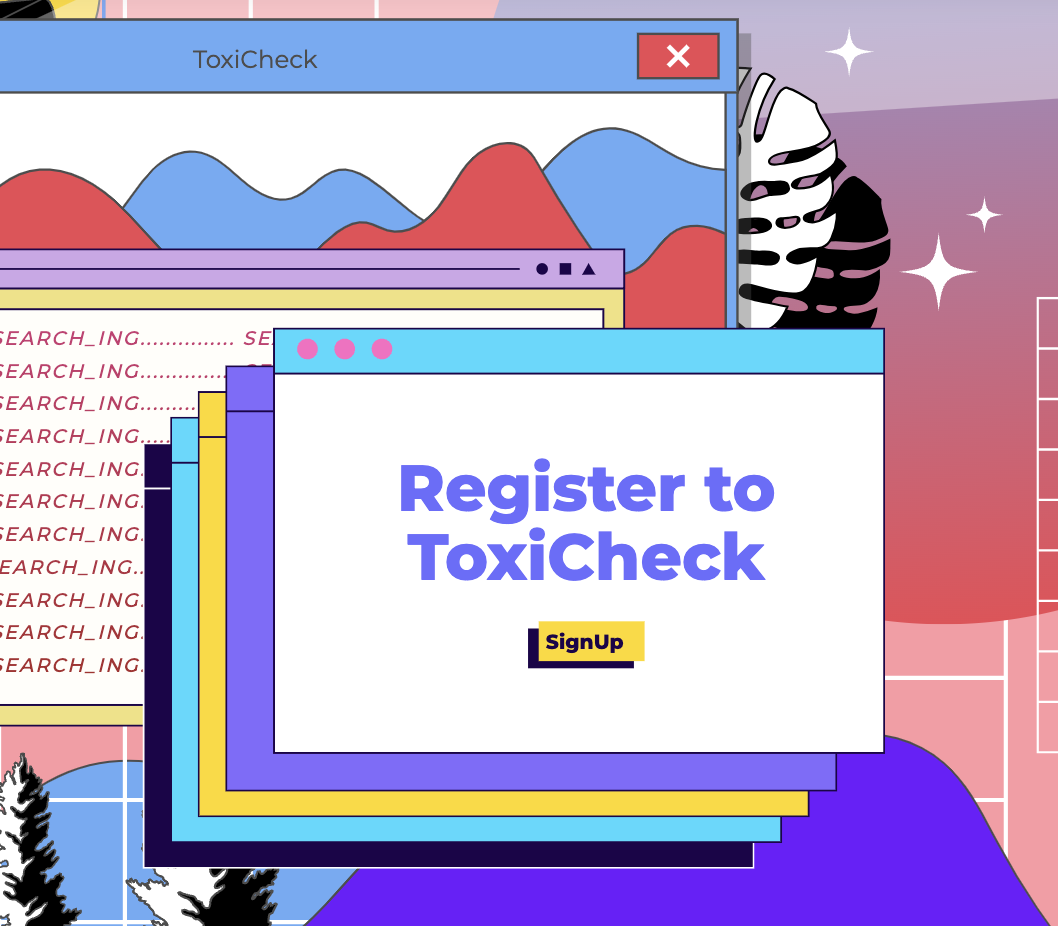
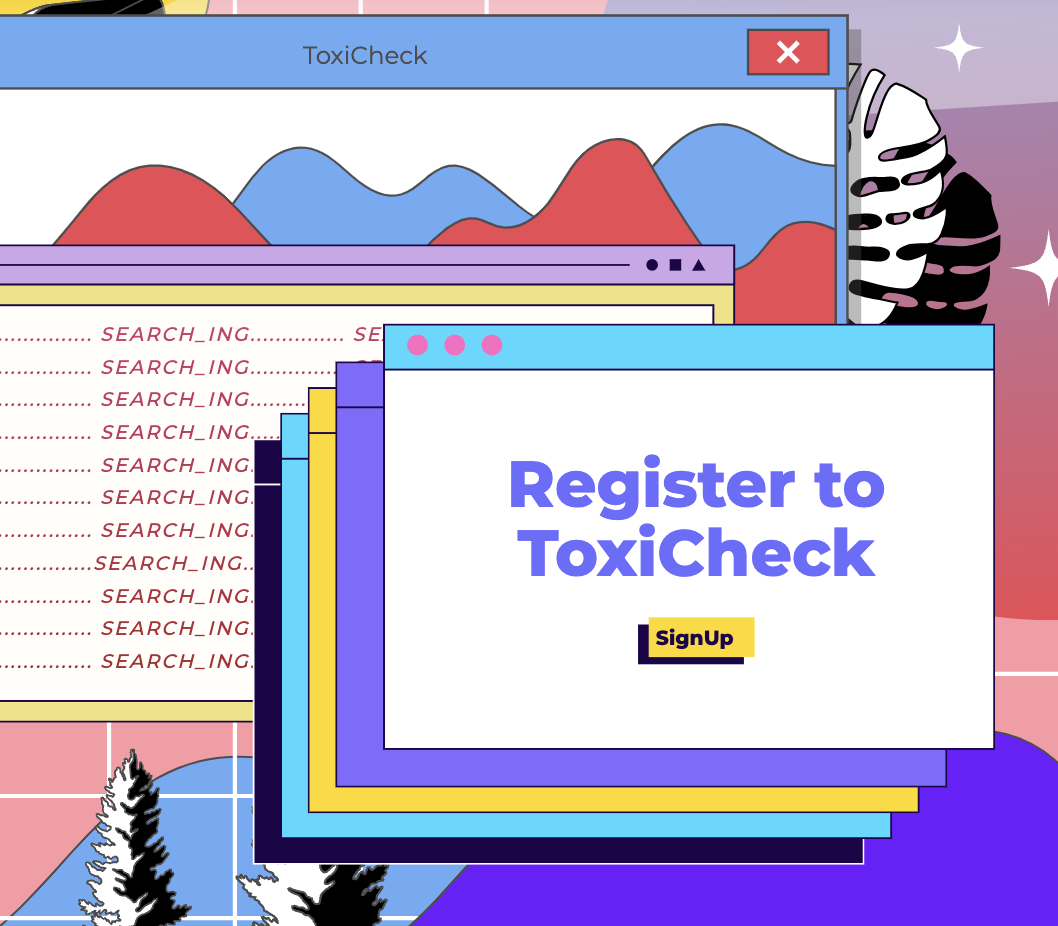
added functionality to display toast message on error or success

diff --git a/index.js b/index.js
@@ -16,8 +16,7 @@ import MongoStore from "connect-mongo";
 import processComments from './toxicheckmodel.js'; 
 
 
-import * as tf from '@tensorflow/tfjs';
-import fs from 'fs';
+
 
 const app = express();
 app.use(cors());
@@ -40,6 +39,14 @@ app.use(session({
 
 app.use(express.static("public"));
 app.use(express.static("images"));
+
+app.use((req, res, next) => {
+  res.locals.success_msg = req.session.success_msg || null;
+  res.locals.error_msg = req.session.error_msg || null;
+  delete req.session.success_msg;
+  delete req.session.error_msg;
+  next();
+});
 
 const authMiddleware = (req, res, next ) => {
   const token = req.cookies.token;
@@ -89,55 +96,78 @@ app.get("/signup", async(req, res) => {
   res.render("register");
 });
 
-app.post("/signup", async(req, res) => {
-  const {user_name, user_email, user_password} = req.body;
-  try{
-    if ( user_name === "" || user_email === "" || user_password === "")
-      return res.status(400).json({message: "Enter value for all fields."});
-    if(!validator.validate(user_email))
-      return res.json({message: "Invalid Email."});
+
+app.post("/signup", async (req, res) => {
+  const { user_name, user_email, user_password } = req.body;
+  try {
+    if (user_name === "" || user_email === "" || user_password === "")
+      throw new Error("Enter value for all fields.");
+    if (!validator.validate(user_email))
+      throw new Error("Invalid Email.");
+
     const encryptedPassword = await bcrypt.hash(user_password, 10);
     const user = await User.create({
       ...req.body,
       user_password: encryptedPassword,
-      user_role : "admin",
+      user_role: "admin",
     });
+    req.session.success_msg = "Registration successful. Please log in.";
     res.redirect("/login");
-    console.log(user);
-  } catch (error){
-    res.json({message: error});
+  } catch (error) {
+    req.session.error_msg = error.message;
+    res.redirect("/signup");
   }
 });
-
-
 
 //user login
 app.get("/login", async(req, res) => {
   res.render("login");
 });
 
-app.post("/login", async(req, res) => {
-    const user_email = req.body.user_email
-    const user_password = req.body.user_password
-    const validUser = await User.findOne({ user_email: user_email });
-  if (!validUser) {
-    return res.status(400).json({ message: "Invalid Credentials." });
-  }
-  if (!(await bcrypt.compare(user_password, validUser.user_password))) {
-    return res.json({ message: "Invalid Credentials." });
-  }
+// app.post("/login", async(req, res) => {
+//     const user_email = req.body.user_email
+//     const user_password = req.body.user_password
+//     const validUser = await User.findOne({ user_email: user_email });
+//   if (!validUser) {
+//     return res.status(400).json({ message: "Invalid Credentials." });
+//   }
+//   if (!(await bcrypt.compare(user_password, validUser.user_password))) {
+//     return res.json({ message: "Invalid Credentials." });
+//   }
 
-  // const accessToken = jwt.sign(
-  //   { user_email: user_email },
-  //   process.env.ACCESS_TOKEN_SECRET,
-  //   { expiresIn: "10m" }
-  // );
-  const token = jwt.sign({ userId: validUser._id}, process.env.ACCESS_TOKEN_SECRET);
-  req.session.user = { id: validUser._id, name: validUser.user_name ,role: validUser.user_role}; // Store user info in session
-  res.cookie('token', token, { httpOnly: true });
-  // res.cookie('token', accessToken, { httpOnly: true });
-  // res.json({ accessToken: accessToken });
-  res.redirect("/");
+//   // const accessToken = jwt.sign(
+//   //   { user_email: user_email },
+//   //   process.env.ACCESS_TOKEN_SECRET,
+//   //   { expiresIn: "10m" }
+//   // );
+//   const token = jwt.sign({ userId: validUser._id}, process.env.ACCESS_TOKEN_SECRET);
+//   req.session.user = { id: validUser._id, name: validUser.user_name ,role: validUser.user_role}; // Store user info in session
+//   res.cookie('token', token, { httpOnly: true });
+//   // res.cookie('token', accessToken, { httpOnly: true });
+//   // res.json({ accessToken: accessToken });
+//   req.session.success_msg = "Registration successful. Please log in.";
+//   res.redirect("/");
+// });
+
+app.post("/login", async (req, res) => {
+  const { user_email, user_password } = req.body;
+  try {
+    const validUser = await User.findOne({ user_email: user_email });
+    if (!validUser || !(await bcrypt.compare(user_password, validUser.user_password))) {
+      throw new Error("Invalid Credentials.");
+    }
+
+    const token = jwt.sign({ userId: validUser._id }, process.env.ACCESS_TOKEN_SECRET);
+    req.session.user = { id: validUser._id, name: validUser.user_name, role: validUser.user_role };
+    res.cookie('token', token, { httpOnly: true });
+    req.session.success_msg = "Login successful.";
+    console.log(req.session.success_msg)
+    res.redirect("/");
+  } catch (error) {
+    req.session.error_msg = error.message;
+    console.log(req.session.error_msg)
+    res.redirect("/login");
+  }
 });
 
 function generateRandomNumber() {

diff --git a/public/css/styles.css b/public/css/styles.css
@@ -298,6 +298,12 @@ background: #eee;
   flex-grow: 2; 
 }
 
+/* Specific adjustments for the image container */
+.register-img-div {
+  flex-grow: 1;
+  padding-bottom: 10px;
+}
+
 /* Adjustments for the form container */
 .col-xl-4 {
   margin-right: auto; /* Align the form to the left */
